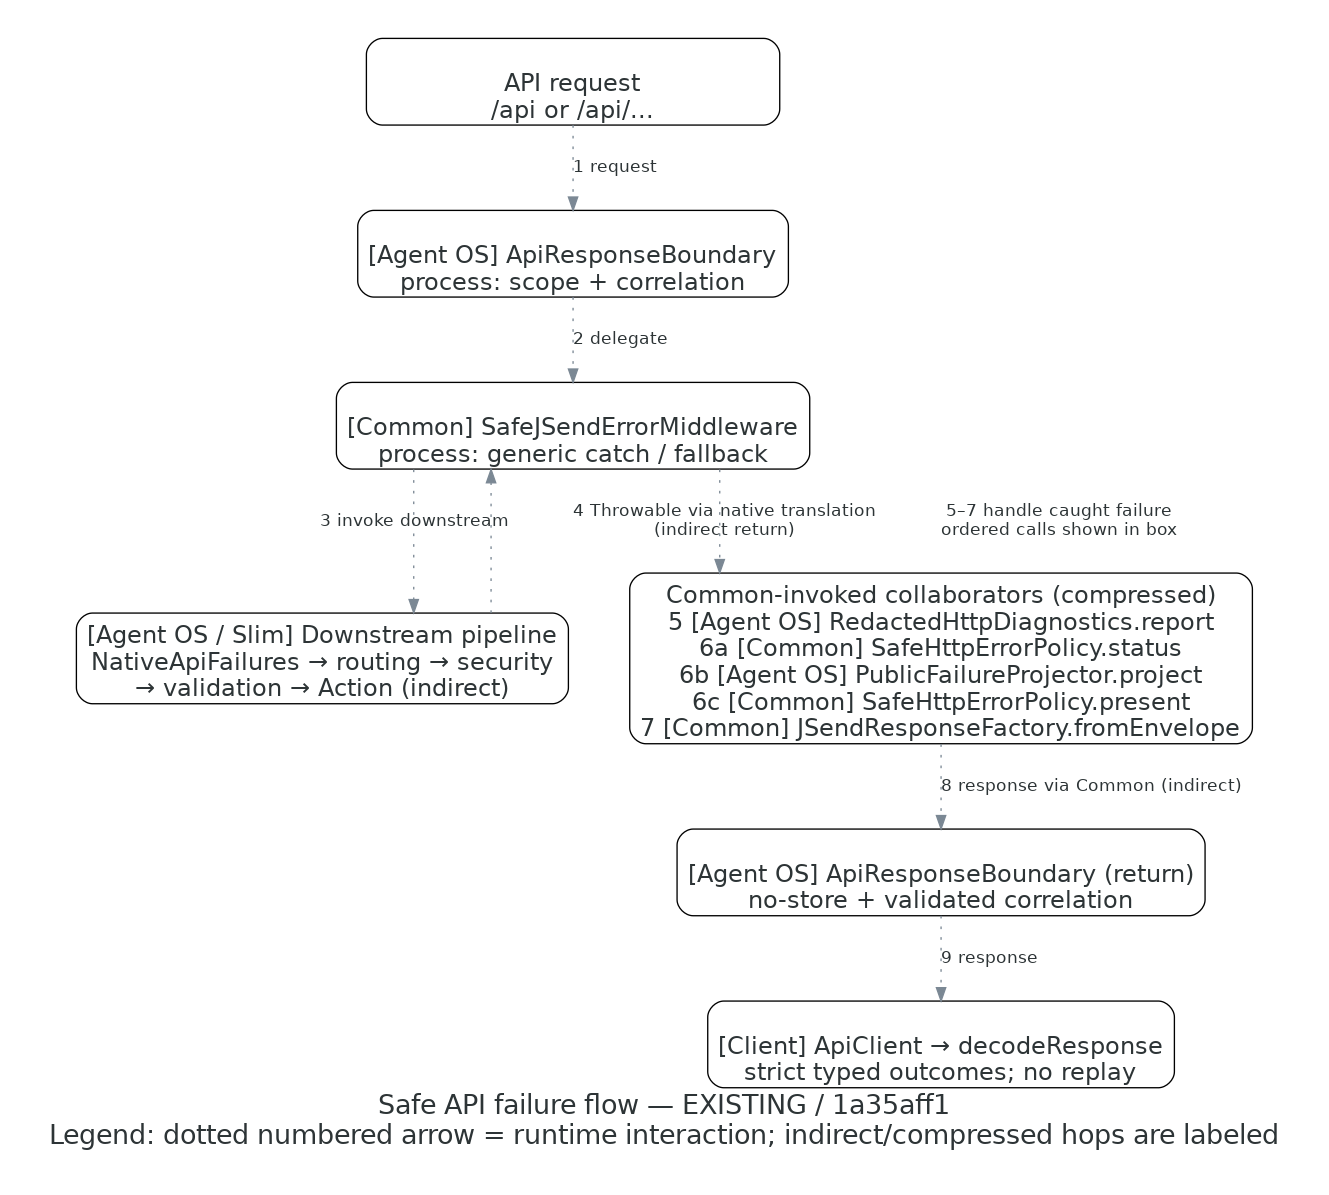
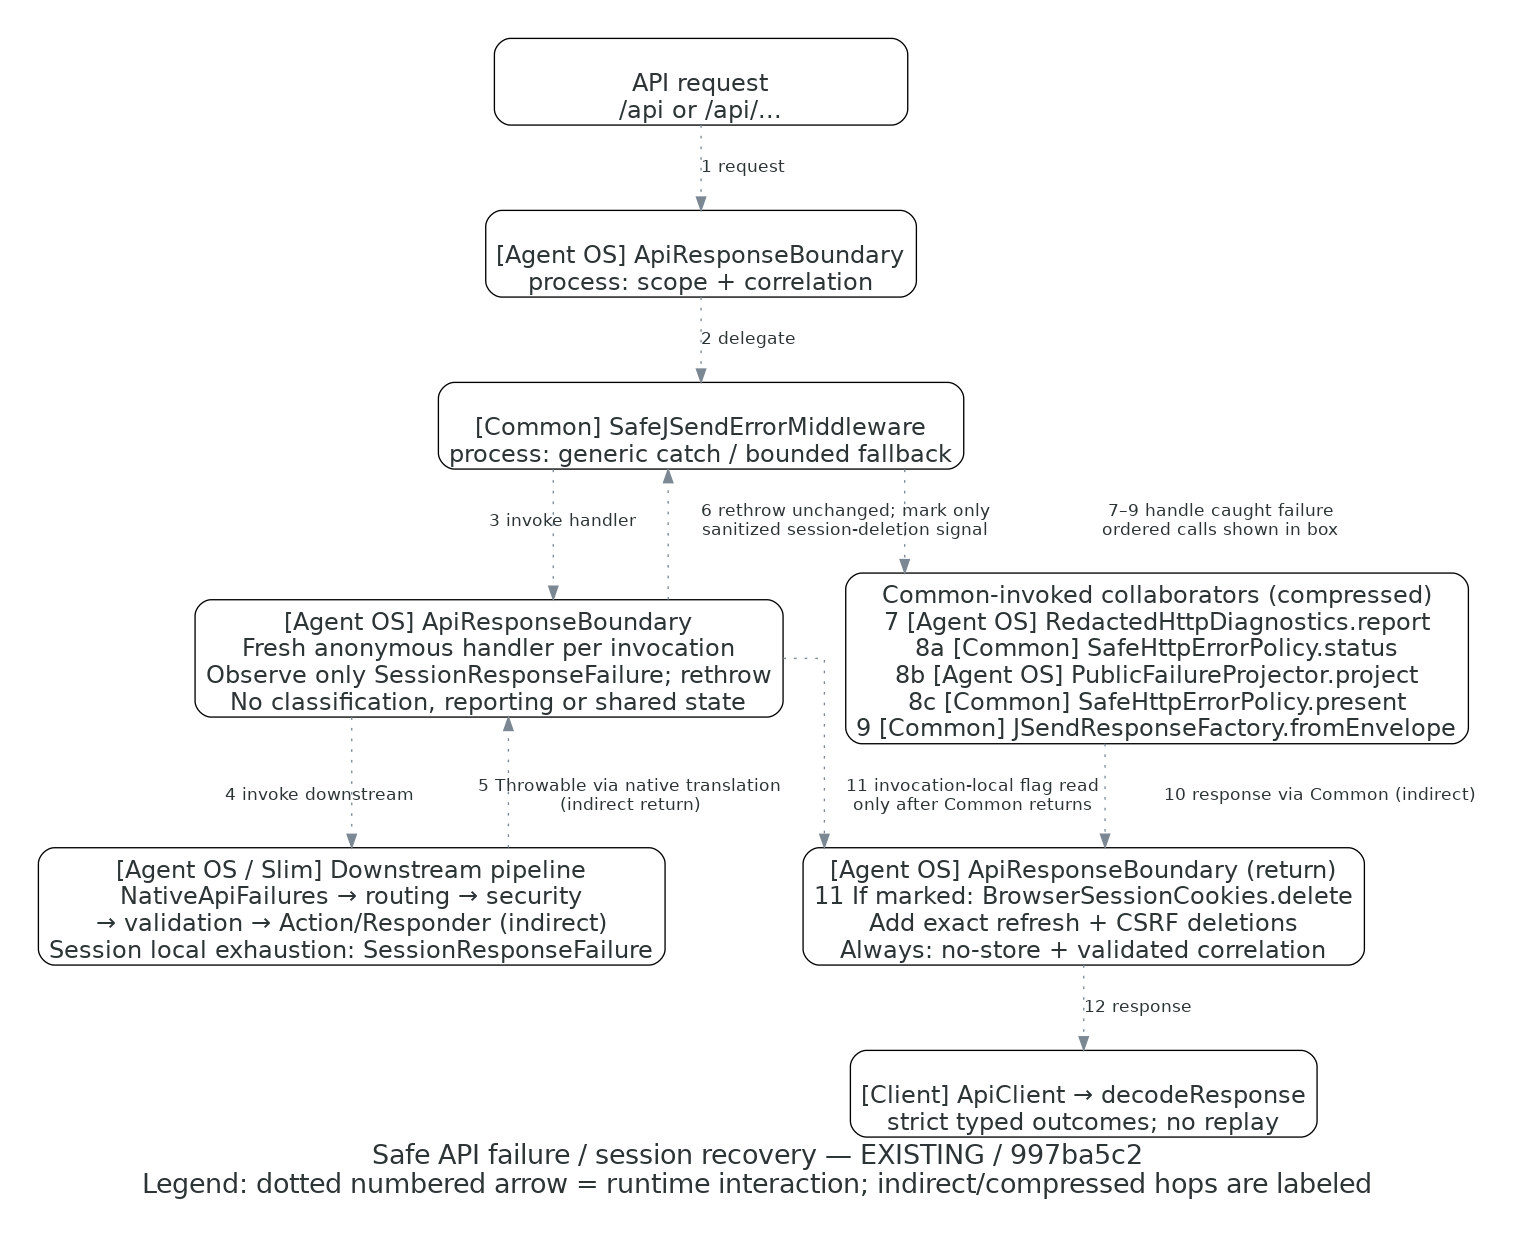
docs(http): trace session deletion through outer recovery

diff --git a/docs/engineering/safe-http-errors/api-failure-flow.py b/docs/engineering/safe-http-errors/api-failure-flow.py
@@ -1,14 +1,14 @@
-"""Render the bounded, source-verified thrown API failure flow without executing the application."""
+"""Render the bounded, source-verified API failure and session recovery flow without executing the application."""
 
 from pathlib import Path
 
 from diagrams import Diagram, Edge, Node
 
-SOURCE_REVISION = "1a35aff126aa0f848648c43cc5d43471f8452da5"
+SOURCE_REVISION = "997ba5c20e9faebb18c2f6be839d2dd2f09edfd1"
 OUTPUT = Path(__file__).with_suffix("")
 
 with Diagram(
-    "Safe API failure flow — EXISTING / 1a35aff1\n"
+    "Safe API failure / session recovery — EXISTING / 997ba5c2\n"
     "Legend: dotted numbered arrow = runtime interaction; indirect/compressed hops are labeled",
     filename=str(OUTPUT),
     outformat="png",
@@ -20,27 +20,46 @@ with Diagram(
 ):
     entry = Node("API request\n/api or /api/...", nodeid="entry")
     scope = Node("[Agent OS] ApiResponseBoundary\nprocess: scope + correlation", nodeid="scope")
-    safe = Node("[Common] SafeJSendErrorMiddleware\nprocess: generic catch / fallback", nodeid="safe")
+    safe = Node("[Common] SafeJSendErrorMiddleware\nprocess: generic catch / bounded fallback", nodeid="safe")
+    guard = Node(
+        "[Agent OS] ApiResponseBoundary\n"
+        "Fresh anonymous handler per invocation\n"
+        "Observe only SessionResponseFailure; rethrow\n"
+        "No classification, reporting or shared state",
+        nodeid="guard",
+    )
     downstream = Node(
-        "[Agent OS / Slim] Downstream pipeline\nNativeApiFailures → routing → security\n→ validation → Action (indirect)",
+        "[Agent OS / Slim] Downstream pipeline\n"
+        "NativeApiFailures → routing → security\n"
+        "→ validation → Action/Responder (indirect)\n"
+        "Session local exhaustion: SessionResponseFailure",
         nodeid="downstream",
     )
     collaborators = Node(
         "Common-invoked collaborators (compressed)\n"
-        "5 [Agent OS] RedactedHttpDiagnostics.report\n"
-        "6a [Common] SafeHttpErrorPolicy.status\n"
-        "6b [Agent OS] PublicFailureProjector.project\n"
-        "6c [Common] SafeHttpErrorPolicy.present\n"
-        "7 [Common] JSendResponseFactory.fromEnvelope",
+        "7 [Agent OS] RedactedHttpDiagnostics.report\n"
+        "8a [Common] SafeHttpErrorPolicy.status\n"
+        "8b [Agent OS] PublicFailureProjector.project\n"
+        "8c [Common] SafeHttpErrorPolicy.present\n"
+        "9 [Common] JSendResponseFactory.fromEnvelope",
         nodeid="collaborators",
     )
-    returned = Node("[Agent OS] ApiResponseBoundary (return)\nno-store + validated correlation", nodeid="returned")
+    returned = Node(
+        "[Agent OS] ApiResponseBoundary (return)\n"
+        "11 If marked: BrowserSessionCookies.delete\n"
+        "Add exact refresh + CSRF deletions\n"
+        "Always: no-store + validated correlation",
+        nodeid="returned",
+    )
     client = Node("[Client] ApiClient → decodeResponse\nstrict typed outcomes; no replay", nodeid="client")
 
     entry >> Edge(label="1 request") >> scope
     scope >> Edge(label="2 delegate") >> safe
-    safe >> Edge(label="3 invoke downstream") >> downstream
-    downstream >> Edge(label="4 Throwable via native translation\n(indirect return)") >> safe
-    safe >> Edge(label="5–7 handle caught failure\nordered calls shown in box") >> collaborators
-    collaborators >> Edge(label="8 response via Common (indirect)") >> returned
-    returned >> Edge(label="9 response") >> client
+    safe >> Edge(label="3 invoke handler") >> guard
+    guard >> Edge(label="4 invoke downstream") >> downstream
+    downstream >> Edge(label="5 Throwable via native translation\n(indirect return)") >> guard
+    guard >> Edge(label="6 rethrow unchanged; mark only\nsanitized session-deletion signal") >> safe
+    safe >> Edge(label="7–9 handle caught failure\nordered calls shown in box") >> collaborators
+    collaborators >> Edge(label="10 response via Common (indirect)") >> returned
+    guard >> Edge(label="11 invocation-local flag read\nonly after Common returns") >> returned
+    returned >> Edge(label="12 response") >> client

diff --git a/docs/engineering/safe-http-errors/README.md b/docs/engineering/safe-http-errors/README.md
@@ -1,9 +1,9 @@
-# Thrown API failure flow
+# API failure and session recovery flow
 
-**Existing implementation**, source commit **`1a35aff126aa0f848648c43cc5d43471f8452da5`** (image label
-`1a35aff1`). [Editable Python source](api-failure-flow.py); [owning contract](../SAFE_HTTP_ERRORS.md).
+**Existing implementation**, source commit **`997ba5c20e9faebb18c2f6be839d2dd2f09edfd1`** (image label
+`997ba5c2`). [Editable Python source](api-failure-flow.py); [owning contract](../SAFE_HTTP_ERRORS.md).
 
-![Existing thrown API failure flow](api-failure-flow.png)
+![Existing API failure and session recovery flow](api-failure-flow.png)
 
 Legend: dotted directed edges are numbered runtime interactions, not static dependency arrows or transaction
 boundaries. Indirect hops are explicitly compressed. No color conveys authority or acceptance.
@@ -16,11 +16,12 @@ Common paths refer to the locked v1.4.1 source `a482c220d312d2ef7762c3f0d85d9fb7
 | Steps / endpoints | Source / inspected meaning |
 |---|---|
 | 1–2 request → scope → Common | [`ApiResponseBoundary::process`](../../../src/Adapter/Http/Middleware/Api/ApiResponseBoundary.php) selects exact API scope, validates/generates correlation and calls the injected Common middleware |
-| 3–4 downstream / translated throw | [`config/middleware.php`](../../../config/middleware.php), [`NativeApiFailures::process`](../../../src/Adapter/Http/Middleware/Api/NativeApiFailures.php) and [`API routes`](../../../config/routes/01-api-v1.php): Slim LIFO includes routing/security/validation/Actions inside the catch. Explicit native/package refusals translate; unknown faults remain unknown |
-| 5 Common → diagnostics | Common `src/Adapter/Middleware/Psr15/SafeJSendErrorMiddleware.php::process` offers the caught failure once. [`RedactedHttpDiagnostics::report`](../../../src/Adapter/Http/Api/Failure/RedactedHttpDiagnostics.php) filters expected refusals and redacts before any logger formatter |
-| 6 Common → policy/projector | Common `src/Adapter/Http/Error/SafeHttpErrorPolicy.php::{status,present,fallback}` owns generic categories/fallback. [`PublicFailureProjector::project`](../../../src/Adapter/Http/Api/Failure/PublicFailureProjector.php) supplies independently authored public fields, intent and protocol metadata |
-| 7–8 Common → factory → adapter return | Common `src/Adapter/Http/Psr17/JSendResponseFactory.php::fromEnvelope`; scope middleware adds no-store/correlation after the successfully created response returns through Common |
-| 9 response → client | [`ApiClient`](../../../client/src/api/ApiClient.ts) and [`decodeResponse`](../../../client/src/api/decodeResponse.ts) enforce the exact current envelope/status/data contract, retaining only declared typed data and no automatic mutation retry |
+| 3–6 invocation guard / downstream / translated throw | [`ApiResponseBoundary::process`](../../../src/Adapter/Http/Middleware/Api/ApiResponseBoundary.php) constructs a fresh anonymous handler around the real downstream handler. [`config/middleware.php`](../../../config/middleware.php), [`NativeApiFailures::process`](../../../src/Adapter/Http/Middleware/Api/NativeApiFailures.php) and [`API routes`](../../../config/routes/01-api-v1.php) retain Slim LIFO routing/security/validation/Actions inside Common. The guard marks only [`SessionResponseFailure`](../../../src/Adapter/Http/Api/V1/Auth/SessionResponseFailure.php), rethrowing unchanged; other failures pass through. [`SessionLifecycleResponder::unavailable`](../../../src/Adapter/Http/Responder/Api/V1/Auth/SessionLifecycleResponder.php) throws this fixed, cause-free signal only after bounded local response/deletion rendering fails |
+| 7 Common → diagnostics | Common `src/Adapter/Middleware/Psr15/SafeJSendErrorMiddleware.php::process` offers the caught failure once. [`RedactedHttpDiagnostics::report`](../../../src/Adapter/Http/Api/Failure/RedactedHttpDiagnostics.php) filters expected refusals and redacts before any logger formatter |
+| 8 Common → policy/projector | Common `src/Adapter/Http/Error/SafeHttpErrorPolicy.php::{status,present,fallback}` owns generic categories/fallback. [`PublicFailureProjector::project`](../../../src/Adapter/Http/Api/Failure/PublicFailureProjector.php) supplies independently authored public fields, intent and protocol metadata |
+| 9–10 Common → factory → adapter return | Common `src/Adapter/Http/Psr17/JSendResponseFactory.php::fromEnvelope`; the same fixed supplier fallback remains bounded and nonrecursive, without a new retry |
+| 11 invocation flag → adapter return | After Common successfully returns, `ApiResponseBoundary::process` reads that invocation's flag and adds both [`BrowserSessionCookies::delete`](../../../src/Adapter/Http/Api/V1/Auth/BrowserSessionCookies.php) identities if marked. It always adds no-store/correlation. The flag/handler is local, not retained in the shared boundary; a returned response or exception cannot contaminate the next request |
+| 12 response → client | [`ApiClient`](../../../client/src/api/ApiClient.ts) and [`decodeResponse`](../../../client/src/api/decodeResponse.ts) enforce the exact current envelope/status/data contract, retaining only declared typed data and no automatic mutation retry |
 
 Composition is shared through [`http_failures.php`](../../../config/application/http_failures.php). The local
 relative links navigate current source; the source commit above pins this diagram's actual inspected snapshot.
@@ -28,12 +29,15 @@ Behavioral evidence is in the TASK/Work handoff, not inferred from these arrows.
 
 ## Scope and omissions
 
-This picture shows the **thrown** API failure path, not the complete class graph, HTTP deployment, bus internals,
-Doctrine transaction, success path or independent acceptance. The owning contract documents the direct
-refresh/logout cookie-effects branch: `SessionLifecycleResponder` uses the same sink and Common policy/fallback,
-then `SessionResponder::clear` preserves exact cookie deletion. Direct safe validation/CSRF responses are not
-invented Throwables. Role/session-revocation package failures are translated into Common intent before this
-shown generic boundary. Startup/non-API/broken-factory escapes do not gain a valid response guarantee.
+This picture shows the **thrown** API failure path and the narrow exhausted-session-rendering branch, not the
+complete class graph, HTTP deployment, bus internals, Doctrine transaction, success path or independent acceptance.
+Ordinary direct refresh/logout responses still use the same sink/Common policy and `SessionResponder::clear`;
+they do not become invented Throwables. Only exhausted local rendering carries its required deletion obligation
+through the invocation guard and Common's outer recovery. Reporter failure can shorten available rendering
+attempts; no response is guaranteed even when a hypothetical later factory call might succeed. A final sanitized
+escape has no private previous cause. Direct safe validation/CSRF responses, detailed local attempts, ordinary
+conflict/admission no-clear and terminal/logout success are omitted. Role/session-revocation package failures
+retain explicit native translations. Startup/non-API/broken-factory escapes gain no valid response guarantee.
 
 The source establishes calls/ownership and Slim registration order. Functional/integration checks separately
 exercise covered behavior; the diagram does not prove security, exactly-once delivery, rollback, browser trust

diff --git a/planning/tasks/00582-TASK.md b/planning/tasks/00582-TASK.md
@@ -384,9 +384,12 @@ observations still escape sanitized, without a private previous cause. Probe cop
 logs live under canonical `.runs/tasks/TASK-00582/runs/repair2-*`; they are Work revalidation, not new Review.
 
 A new normal final gate on finished frozen source is required; repair-1 receipt `20261106T223532Z-18214` is
-historical for this code. The maintained flow view will be updated only for the now-represented narrow session
-escape/outer-deletion branch, not as a whole-application or browser claim. Independent Review and affected QA
-remain subsequent owners; this TASK/parents stay open.
+historical for this code. The maintained flow view now represents the narrow session escape/outer-deletion
+branch against implementation `997ba5c20e9faebb18c2f6be839d2dd2f09edfd1`. Owning `./bin/diagrams versions`
+and `render` pass using the existing image (Python 3.12.16, Diagrams 0.25.1, dot 2.43.0, DejaVu 2.37-6);
+the complete regenerated PNG was opened and inspected for legibility, arrows, scope and legend. No install or
+application operation occurs in rendering. This is not a whole-application or browser claim. Independent Review
+and affected QA remain subsequent owners; this TASK/parents stay open.
 
 R2 remains separate and unchanged: the reused six-service `fight-wt-9fedfa4ea521` project, exact task leaf and
 supplier on 18444 stay available for active consumers. The task name is absent from the peer-preserving include

diff --git a/docs/engineering/SAFE_HTTP_ERRORS.md b/docs/engineering/SAFE_HTTP_ERRORS.md
@@ -36,8 +36,9 @@ explicit owner translations; malformed/unusable values are not automatically bus
 Capability-specific query/result/admission corrections remain with TASK-00574–00581; shared imports do not
 certify those unperformed corrections or supplier guarantees.
 
-The maintained [thrown-failure flow](safe-http-errors/README.md) links the editable diagram, exact source revision,
-source/arrow traces and explicit omissions. It illustrates this composition, not acceptance or browser readiness.
+The maintained [failure/session-recovery flow](safe-http-errors/README.md) links the editable diagram, exact source
+revision, source/arrow traces and explicit omissions. It illustrates this composition and the narrow session-deletion
+signal across outer recovery, not acceptance or browser readiness.
 
 ## Wire contract
 
